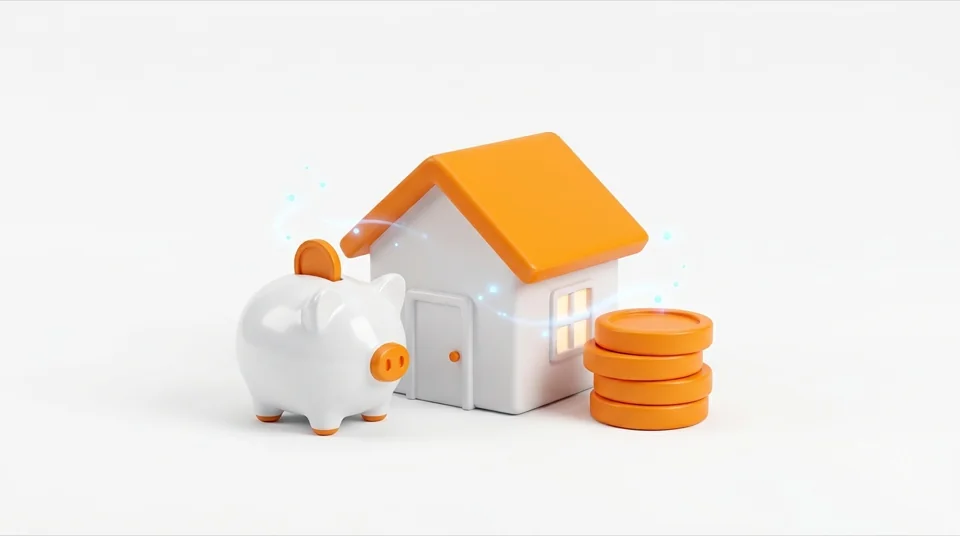
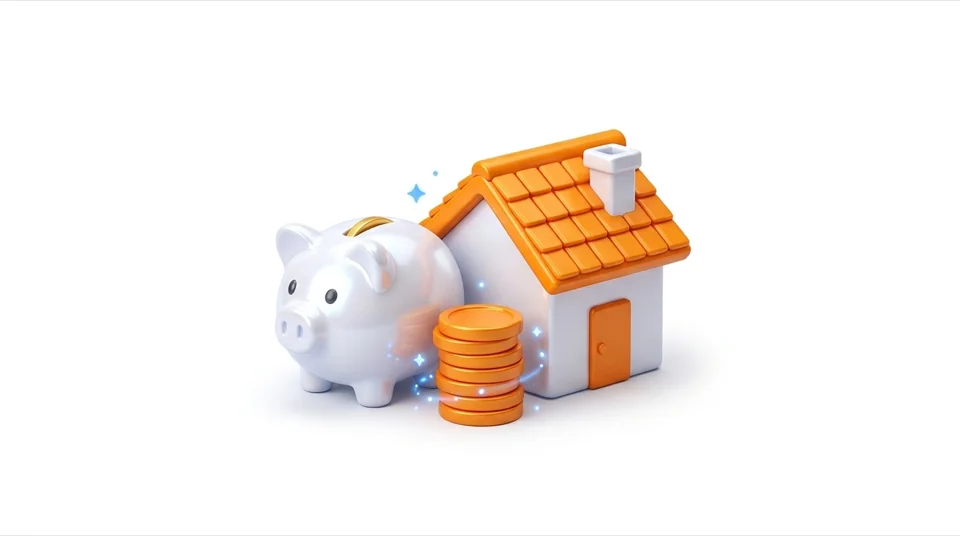
fix(ui): journal empty picture inside the table, portal welcome area, distinct catalog pictures
- Journal Entries: the empty picture and its words sit in the table's body,
  so the pinned register total always shows whole.
- Member portal home: from lg the greeting is a compact welcome area with
  the picture at 112 px and no tile; md keeps the row size, phones skip it.
- Reports and Documents catalogs: no two neighbouring sections share a
  picture.
- Regenerated portal-welcome and empty-reminders pictures on pure white.

Changed region(s): [[0.1875, 0.2388, 0.75, 0.8358], [0.2812, 0.3582, 0.3125, 0.3881]]

diff --git a/src/app/member/(signed-in)/(shell)/page.tsx b/src/app/member/(signed-in)/(shell)/page.tsx
@@ -15,7 +15,7 @@ import { DashboardLists } from "./_components/dashboard-lists";
  * Home: the member's figures at a glance, every one from `/portal/dashboard`
  * (portal design §3). At the `fit:` size the greeting and the figure cards
  * stay put and the two lists below share the rest, each scrolling inside its
- * card. The welcome picture sits on the greeting row's right side from `md` up.
+ * card. The welcome picture sits on the greeting's right side from `md` up.
  */
 export default function MemberDashboardPage() {
   const fetcher = useCallback(() => portalService.dashboard(), []);
@@ -23,25 +23,31 @@ export default function MemberDashboardPage() {
 
   return (
     <PageFill className="gap-5">
-      <PortalPageHeader
-        title={data ? `Hello, ${data.member.first_name}` : "Welcome"}
-        description={
-          data ? (
-            <>
-              Member number {data.member.member_number}
-              {data.member.branch_name ? ` · ${data.member.branch_name}` : ""}
-            </>
-          ) : undefined
-        }
-        actions={
-          // The row's own height (heading plus member line), so the page still
-          // fits at 1366x768; phones skip it.
-          <Illustration
-            name="portalWelcome"
-            className="hidden aspect-video h-14 max-h-14 md:block"
+      {/*
+        From `lg` the greeting is a compact welcome area: the greeting on the
+        left, the picture on the right at about 112 px, so the home still fits
+        at 1366x768. At `md` the picture keeps the row's height; phones skip it.
+        The picture's white background sits on the card's white, with no tile.
+      */}
+      <div className="flex shrink-0 items-center justify-between gap-4 lg:rounded-xl lg:border lg:bg-card lg:py-2 lg:pl-6 lg:pr-4">
+        <div className="min-w-0 flex-1">
+          <PortalPageHeader
+            title={data ? `Hello, ${data.member.first_name}` : "Welcome"}
+            description={
+              data ? (
+                <>
+                  Member number {data.member.member_number}
+                  {data.member.branch_name ? ` · ${data.member.branch_name}` : ""}
+                </>
+              ) : undefined
+            }
           />
-        }
-      />
+        </div>
+        <Illustration
+          name="portalWelcome"
+          className="hidden aspect-video h-14 max-h-14 shrink-0 rounded-xl bg-transparent p-0 md:block lg:h-28 lg:max-h-28"
+        />
+      </div>
       <LoadState loading={loading} error={error} onRetry={reload}>
         {data && (
           <FillSection className="gap-5">

diff --git a/src/app/(app)/accounting/journals/page.tsx b/src/app/(app)/accounting/journals/page.tsx
@@ -236,7 +236,7 @@ function JournalEntriesContent() {
             {meta ? journalStatusCounts(meta.stats) : "Loading…"}
           </p>
 
-          {/* With no rows the box keeps its natural height, so the message sits under the headings. */}
+          {/* With no rows the box keeps its natural height; a failed load's message sits under it. */}
           <ScrollBox
             className={cn(!(settled && !failed) && "opacity-60", rows.length === 0 && "fit:flex-initial")}
             aria-busy={!settled}
@@ -289,6 +289,20 @@ function JournalEntriesContent() {
                     </TableCell>
                   </TableRow>
                 ))}
+                {/* Inside the box, so the pinned register total below always shows whole. */}
+                {settled && !failed && rows.length === 0 && (
+                  <TableRow className="hover:bg-transparent">
+                    <TableCell colSpan={8} className="py-6 text-center text-sm text-muted-foreground">
+                      {hasIllustration(emptyPicture) && (
+                        <Illustration
+                          name={emptyPicture}
+                          className="mx-auto mb-3 block fit:max-h-[min(6rem,11dvh)]"
+                        />
+                      )}
+                      No journal entry matches these filters.
+                    </TableCell>
+                  </TableRow>
+                )}
               </TableBody>
               <TableFooter>
                 <TableRow>
@@ -307,19 +321,12 @@ function JournalEntriesContent() {
             </Table>
           </ScrollBox>
 
-          {settled && rows.length === 0 && (
+          {settled && failed && rows.length === 0 && (
             <div className="space-y-3 py-12 text-center text-sm text-muted-foreground">
-              {!failed && hasIllustration(emptyPicture) && (
-                <Illustration name={emptyPicture} className="mx-auto block fit:max-h-[min(8rem,14dvh)]" />
-              )}
-              <p className={failed ? "text-destructive" : undefined}>
-                {failed ? answer.error : "No journal entry matches these filters."}
-              </p>
-              {failed && (
-                <Button variant="outline" size="sm" onClick={() => setReload((n) => n + 1)}>
-                  Try again
-                </Button>
-              )}
+              <p className="text-destructive">{answer.error}</p>
+              <Button variant="outline" size="sm" onClick={() => setReload((n) => n + 1)}>
+                Try again
+              </Button>
             </div>
           )}
 

diff --git a/src/lib/catalog-illustrations.test.ts b/src/lib/catalog-illustrations.test.ts
@@ -2,8 +2,8 @@
  * The small picture beside each heading of the Reports and Documents catalogs.
  *
  * WHAT THIS PROVES: every report category and every printable subject has a
- * module picture, the picture is the one its module's empty screens use, and
- * that picture is a filled slot.
+ * module picture, the agreed one for that section, no two neighbouring
+ * sections repeat, and each picture is a filled slot.
  * WHAT IT DOES NOT PROVE: how the heading draws it, or that the page still fits
  * at 1366x768 (browser check).
  */
@@ -17,11 +17,11 @@ test("each report category shows its module's picture", () => {
   assert.deepEqual(Object.keys(CATEGORY_ILLUSTRATION).sort(), Object.keys(CATEGORY_META).sort());
   assert.deepEqual(CATEGORY_ILLUSTRATION, {
     operations: "emptyPayments",
-    portfolio: "emptyLoans",
+    portfolio: "emptyCollaterals",
     member: "emptyMembers",
     disbursement: "emptyLoans",
     financial: "emptyLedger",
-    performance: "emptyPayments",
+    performance: "emptyShareCapital",
     savings: "emptySavings",
   });
 });
@@ -33,9 +33,18 @@ test("each printable subject shows its module's picture", () => {
     borrower: "emptyMembers",
     repayment: "emptyPayments",
     savings_account: "emptySavings",
-    savings_withdrawal: "emptySavings",
-    time_deposit: "emptySavings",
+    savings_withdrawal: "emptyWallet",
+    time_deposit: "emptyShareCapital",
   });
+});
+
+test("no two neighbouring catalog sections share a picture", () => {
+  const reports = Object.keys(CATEGORY_META).map((c) => CATEGORY_ILLUSTRATION[c as keyof typeof CATEGORY_ILLUSTRATION]);
+  const subjects = ["loan", "borrower", "repayment", "savings_account", "savings_withdrawal", "time_deposit"] as const;
+  const printables = subjects.map((s) => SUBJECT_ILLUSTRATION[s]);
+  for (const list of [reports, printables]) {
+    for (let i = 1; i < list.length; i++) assert.notEqual(list[i], list[i - 1], `${list[i - 1]} repeats`);
+  }
 });
 
 test("every catalog picture is a filled module slot", () => {

diff --git a/src/app/(app)/reports/_lib/types.ts b/src/app/(app)/reports/_lib/types.ts
@@ -379,15 +379,15 @@ export const CATEGORY_META: Record<
 };
 
 /**
- * The small picture beside each category's heading on `/reports`: the picture
- * its module's empty lists use.
+ * The small picture beside each category's heading on `/reports`, one of the
+ * module pictures, chosen so no two neighbouring sections repeat.
  */
 export const CATEGORY_ILLUSTRATION: Record<ReportCategory, ModuleIllustrationName> = {
   operations: "emptyPayments",
-  portfolio: "emptyLoans",
+  portfolio: "emptyCollaterals",
   member: "emptyMembers",
   disbursement: "emptyLoans",
   financial: "emptyLedger",
-  performance: "emptyPayments",
+  performance: "emptyShareCapital",
   savings: "emptySavings",
 };

diff --git a/src/lib/printables/types.ts b/src/lib/printables/types.ts
@@ -264,14 +264,14 @@ export const SUBJECT_ACCENT: Record<
 };
 
 /**
- * The small picture beside each subject's heading on `/printables`: the
- * picture its module's empty lists use.
+ * The small picture beside each subject's heading on `/printables`, one of the
+ * module pictures, chosen so no two neighbouring sections repeat.
  */
 export const SUBJECT_ILLUSTRATION: Record<PrintableSubject, ModuleIllustrationName> = {
   loan: "emptyLoans",
   borrower: "emptyMembers",
   repayment: "emptyPayments",
   savings_account: "emptySavings",
-  savings_withdrawal: "emptySavings",
-  time_deposit: "emptySavings",
+  savings_withdrawal: "emptyWallet",
+  time_deposit: "emptyShareCapital",
 };
